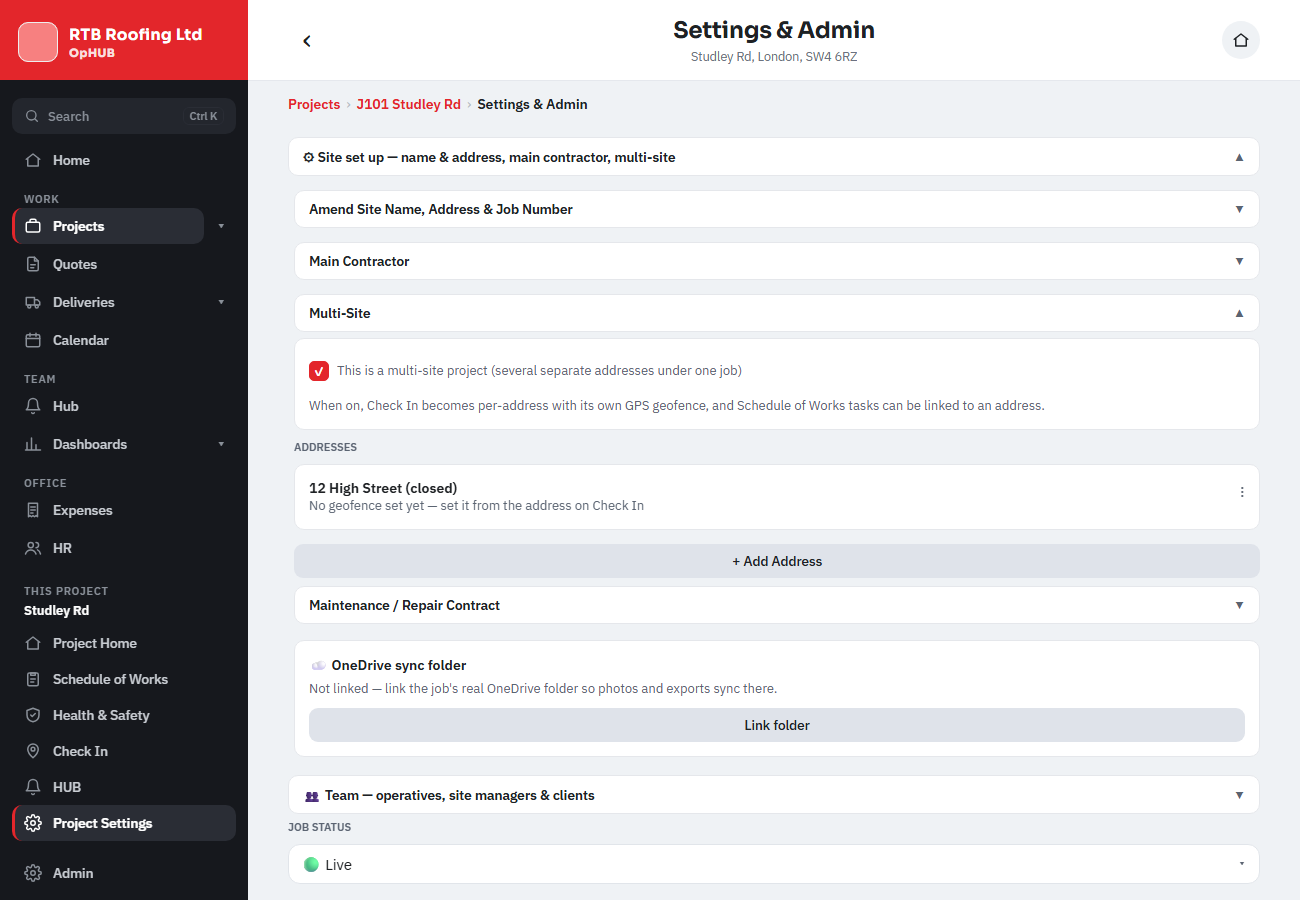
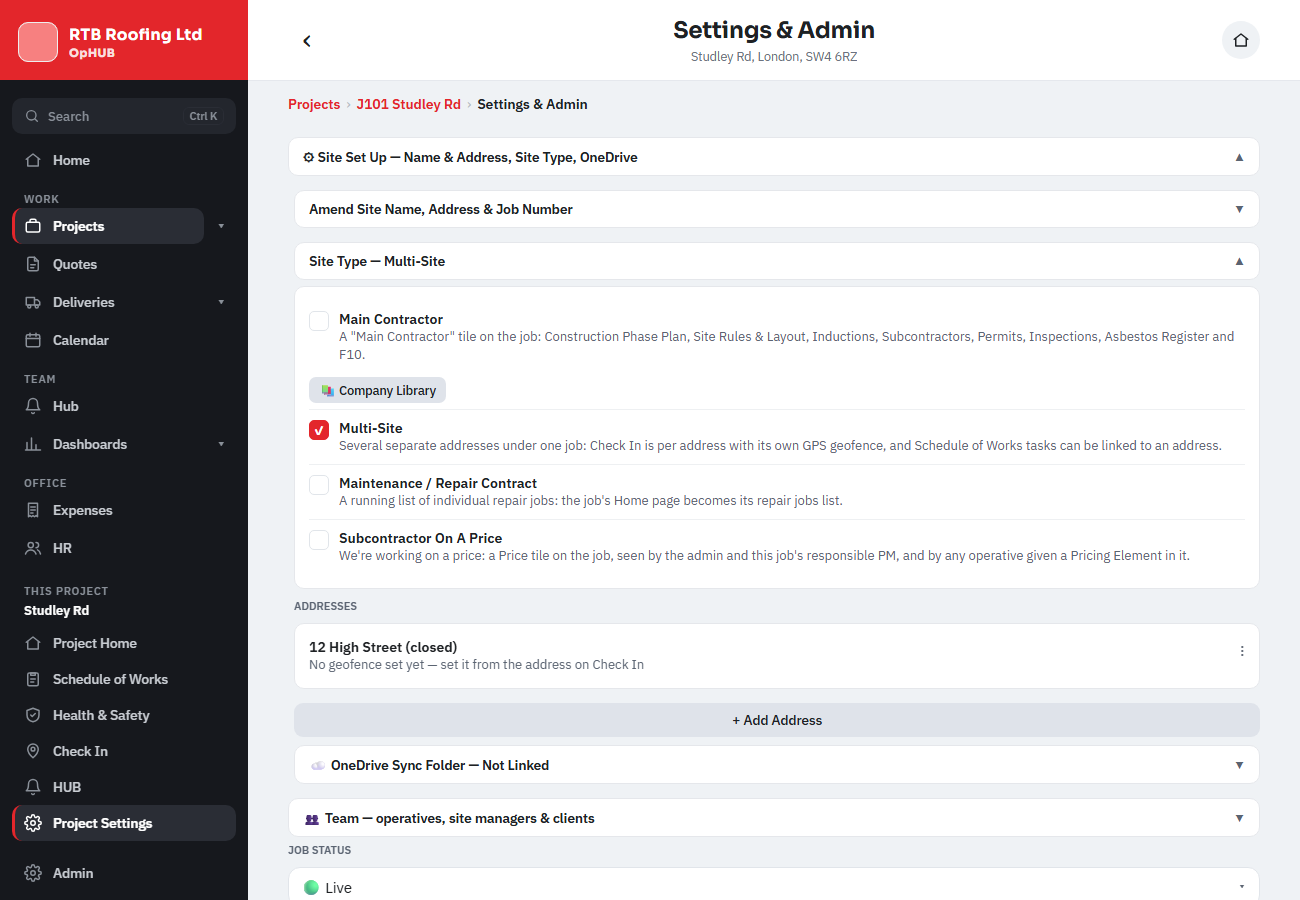
Project settings (Andy, 20 Nov): one Site Type row with tick-on options (Main Contractor, Multi-Site, Maintenance / Repair Contract, and the Price switch moved in as Subcontractor On A Price); multi-site or repair contract asks before swapping; the OneDrive Sync Folder is a drop-down, closed to star
Claude-Session: https://claude.ai/code/session_012KhfNvBEbifMJmPdX7yZfp

diff --git a/app-native/src/app/(app)/sites/[id]/admin.tsx b/app-native/src/app/(app)/sites/[id]/admin.tsx
@@ -1,6 +1,6 @@
 // A job's Settings & Admin (380 renderAssignTeam + 370). Site set up: name/address/
-// job number/start date, Main Contractor, Multi-Site and its addresses, Repair
-// Contract. Team: operatives, site managers, subcontractor crews, clients. Job
+// job number/start date, Site Type (Main Contractor, Multi-Site and its addresses, Repair
+// Contract, Subcontractor On A Price), the OneDrive folder. Team: operatives, site managers, subcontractor crews, clients. Job
 // status, Price switch, Activity History and Site Info. Managers only.
 import { setupJobPack, useJobPackSettings } from '@/data/jobPack';
 import { useQueryClient } from '@tanstack/react-query';
@@ -12,7 +12,7 @@ import { DateBox } from '@/components/DateField';
 import { SelectBox } from '@/components/SelectBox';
 import { AssignList } from '@/components/AssignList';
 import { chooseAction, confirmAsk, showAlert, useToast } from '@/components/toast';
-import { Button, Card, Check, Empty, Muted, SectionTitle, Toggle } from '@/components/ui';
+import { Button, Card, Empty, Muted, SectionTitle, Toggle } from '@/components/ui';
 import { nameOf, usePeople } from '@/data/hs';
 import {
   assignToSite, deleteSubAddress, removeFromSite, setSubAddressClosed, saveSubAddress, setSiteStatus, toggleSubOperative, updateSite,
@@ -25,7 +25,7 @@ import { useAuth } from '@/lib/auth';
 import { siteStatusKey } from '@/lib/rules/checkin';
 import { jobNumberClash } from '@/lib/rules/jobNumbers';
 import { isFullManager, isManager } from '@/lib/roles';
-import { base, page, radius, space } from '@/theme/theme';
+import { base, page, radius, space, useTheme } from '@/theme/theme';
 
 const box = { borderWidth: 1, borderColor: base.line, borderRadius: radius.input, padding: 10, color: base.ink, backgroundColor: base.card, marginBottom: 8 };
 const long = (d: string | null | undefined) => (d ? new Date(d).toLocaleDateString('en-GB', { day: '2-digit', month: 'short', year: 'numeric' }) : '—');
@@ -61,12 +61,21 @@ export default function SiteAdmin() {
     void refetch();
   };
   const flag = async (patch: Record<string, unknown>, msg: string) => { if (await updateSite(qc, id, patch)) toast(msg); else toast('Could not save — try again.'); };
+  const types = [mc && 'Main Contractor', site.multi_site && 'Multi-Site', site.repair_contract && 'Repair Contract', site.price_enabled && 'On A Price'].filter(Boolean) as string[];
+  // Multi-site or repair contract: turning one on when the other is on asks, then swaps.
+  const setType = async (k: 'multi' | 'repair') => {
+    const on = k === 'multi' ? !!site.multi_site : !!site.repair_contract;
+    const other = k === 'multi' ? !!site.repair_contract : !!site.multi_site;
+    if (!on && other && !(await confirmAsk(`A job is multi-site or a repair contract, not both. Turn off ${k === 'multi' ? 'Maintenance / Repair Contract and make it Multi-Site' : 'Multi-Site and make it a Maintenance / Repair Contract'}?`, 'Yes', 'No'))) return;
+    const swap = !on && other ? (k === 'multi' ? { repair_contract: false } : { multi_site: false }) : {};
+    await flag({ [k === 'multi' ? 'multi_site' : 'repair_contract']: !on, ...swap }, '');
+  };
 
   return (
     <ScrollView contentContainerStyle={page(720)} keyboardShouldPersistTaps="handled">
       <Stack.Screen options={{ title: 'Settings & Admin' }} />
 
-      <Toggle title="⚙ Site set up — name & address, main contractor, multi-site" open={!!open.setup} onPress={() => flip('setup')} />
+      <Toggle title="⚙ Site Set Up — Name & Address, Site Type, OneDrive" open={!!open.setup} onPress={() => flip('setup')} />
       {open.setup && (
         <View style={{ marginLeft: 6 }}>
           {full && (
@@ -98,74 +107,65 @@ export default function SiteAdmin() {
             </>
           )}
 
-          <Toggle title="Main Contractor" open={!!open.mc} onPress={() => flip('mc')} />
-          {open.mc && (
-            <Card>
-              {full ? <Check label="Acting as a Main Contractor?" value={mc} onChange={(v) => void flag({ acting_as_main_contractor: v }, v ? 'Main Contractor tiles enabled' : 'Main Contractor tiles disabled')} />
-                : <Muted>{mc ? '✓ Acting as a Main Contractor' : 'Not acting as a Main Contractor'}</Muted>}
-              <Muted style={{ marginTop: 8 }}>When on, a single "Main Contractor" tile appears on this site's home page, leading to the Construction Phase Plan, Site Rules & Layout, Inductions, Subcontractors, Permits, Inspections, Asbestos Register and F10.</Muted>
-              {/* 380: every subcontractor company's own library (insurance, accreditations, RAMS templates), shared across jobs. */}
-              <View style={{ marginTop: 10 }}><Button kind="ghost" title="📚 Company Library" onPress={() => router.push('/pm/admin/companylibrary' as never)} /></View>
-            </Card>
-          )}
-
-          <Toggle title="Multi-Site" open={!!open.multi} onPress={() => flip('multi')} />
-          {open.multi && (
+          {/* Site Type (Andy, 20 Nov 2026: "move the main contractor and multi site maintenance repair under one row for site type
+              please? then the options are selectable and the price in here too (change to subcontractor on a price?)"): one row,
+              each type ticked on or off. A project is multi-site or a repair contract, not both. */}
+          <Toggle title={`Site Type${types.length ? ` — ${types.join(' · ')}` : ''}`} open={!!open.type} onPress={() => flip('type')} />
+          {open.type && (
             <View>
               <Card>
-                {full && !site.repair_contract ? <Check label="This is a multi-site project (several separate addresses under one job)" value={site.multi_site} onChange={(v) => void flag({ multi_site: v }, v ? 'Multi-site enabled — add its addresses below' : 'Multi-site disabled')} />
-                  : <Muted>{site.multi_site ? '✓ Multi-site project' : 'Not a multi-site project'}</Muted>}
-                <Muted style={{ marginTop: 8 }}>{site.repair_contract ? 'Turn off Maintenance / Repair Contract first — a project is one or the other, not both.' : 'When on, Check In becomes per-address with its own GPS geofence, and Schedule of Works tasks can be linked to an address.'}</Muted>
+                <TypeRow first label="Main Contractor" on={mc} edit={full} onPress={() => void flag({ acting_as_main_contractor: !mc }, '')}
+                  desc='A "Main Contractor" tile on the job: Construction Phase Plan, Site Rules & Layout, Inductions, Subcontractors, Permits, Inspections, Asbestos Register and F10.' />
+                {/* 380: every subcontractor company's own library (insurance, accreditations, RAMS templates), shared across jobs. */}
+                <View style={{ alignItems: 'center', marginBottom: 6 }}><Button small kind="ghost" title="📚 Company Library" onPress={() => router.push('/pm/admin/companylibrary' as never)} /></View>
+                <TypeRow label="Multi-Site" on={!!site.multi_site} edit={full} onPress={() => void setType('multi')}
+                  desc="Several separate addresses under one job: Check In is per address with its own GPS geofence, and Schedule of Works tasks can be linked to an address." />
+                <TypeRow label="Maintenance / Repair Contract" on={!!site.repair_contract} edit={full} onPress={() => void setType('repair')}
+                  desc="A running list of individual repair jobs: the job's Home page becomes its repair jobs list." />
+                {full && <TypeRow label="Subcontractor On A Price" on={!!site.price_enabled} edit onPress={() => void flag({ price_enabled: !site.price_enabled }, '')}
+                  desc="We're working on a price: a Price tile on the job, seen by the admin and this job's responsible PM, and by any operative given a Pricing Element in it." />}
+                {!full && <Muted style={{ marginTop: 6, textAlign: 'center' }}>Only an admin or project manager can change the site type.</Muted>}
               </Card>
-              {site.multi_site && (
-                <>
-                  <SectionTitle>Addresses</SectionTitle>
-                  {(addrs ?? []).map((a: FullSubAddr) => (
-                    <Card key={a.id} style={{ flexDirection: 'row', gap: 8 }}>
-                      <View style={{ flex: 1 }}>
-                        <Text style={{ fontWeight: '600', color: base.ink }}>{a.name}{a.closed ? ' (closed)' : ''}</Text>
-                        {!!(a.address || a.postcode) && <Muted>{[a.address, a.postcode].filter(Boolean).join(', ')}</Muted>}
-                        <Muted>{a.geofence_lat != null ? `📍 Geofence set — ${a.geofence_radius_m || 100}m radius` : 'No geofence set yet — set it from the address on Check In'}</Muted>
-                      </View>
-                      <Pressable hitSlop={8} onPress={async () => {
-                        const k = await chooseAction(a.name, [{ key: 'edit', label: '✎ Edit' }, { key: 'geo', label: '📍 Geofence (on Check In)' }, { key: 'close', label: a.closed ? '🔓 Reopen this address' : '🔒 Close this address (finished)' }, { key: 'del', label: '🗑 Delete', danger: true }]);
-                        if (k === 'edit') setAddrForm({ id: a.id, name: a.name, address: a.address || '', postcode: a.postcode || '' });
-                        else if (k === 'geo') router.push(`/sites/${id}/checkin/${a.id}` as never);
-                        else if (k === 'close') { if (await setSubAddressClosed(me, id, a, !a.closed)) void refetchAddrs(); else toast('Could not save — try again.'); }
-                        else if (k === 'del' && await confirmAsk("Delete this address? Any tasks or check-ins already linked to it keep their history but will show as unlinked. This can't be undone.", 'Delete')) {
-                          if (await deleteSubAddress(me, id, a)) { toast('Address deleted'); void refetchAddrs(); } else toast('Could not delete — try again.');
-                        }
-                      }}><Text style={{ fontSize: 18, color: base.slate }}>⋮</Text></Pressable>
-                    </Card>
-                  ))}
-                  {!addrs?.length && <Empty>No addresses added yet.</Empty>}
-                  {addrForm ? (
-                    <Card style={{ backgroundColor: base.paper }}>
-                      <SectionTitle>{addrForm.id ? 'Edit Address' : 'Add Address'}</SectionTitle>
-                      <TextInput value={addrForm.name} onChangeText={(t) => setAddrForm({ ...addrForm, name: t })} placeholder="e.g. 12 High Street" style={box} />
-                      <TextInput value={addrForm.address} onChangeText={(t) => setAddrForm({ ...addrForm, address: titleCase(t) })} placeholder="Address (optional)" style={box} />
-                      <TextInput value={addrForm.postcode} onChangeText={(t) => setAddrForm({ ...addrForm, postcode: t.toUpperCase() })} placeholder="Postcode (optional)" autoCapitalize="characters" style={box} />
-                      <Button title={addrForm.id ? 'Save' : 'Add Address'} onPress={async () => {
-                        if (!addrForm.name.trim()) { toast('Enter a name for this address.'); return; }
-                        if (await saveSubAddress(me, id, addrForm.id, { name: addrForm.name.trim(), address: addrForm.address.trim(), postcode: addrForm.postcode.trim() })) {
-                          toast(addrForm.id ? 'Address updated' : 'Address added'); setAddrForm(null); void refetchAddrs(); void qc.invalidateQueries({ queryKey: ['subAddresses', id] });
-                        } else toast('Could not save — try again.');
-                      }} />
-                      <Button kind="ghost" title="Cancel" onPress={() => setAddrForm(null)} />
-                    </Card>
-                  ) : <Button kind="ghost" title="+ Add Address" onPress={() => setAddrForm({ id: null, name: '', address: '', postcode: '' })} />}
-                </>
-              )}
+            {site.multi_site && (
+              <>
+                <SectionTitle>Addresses</SectionTitle>
+                {(addrs ?? []).map((a: FullSubAddr) => (
+                  <Card key={a.id} style={{ flexDirection: 'row', gap: 8 }}>
+                    <View style={{ flex: 1 }}>
+                      <Text style={{ fontWeight: '600', color: base.ink }}>{a.name}{a.closed ? ' (closed)' : ''}</Text>
+                      {!!(a.address || a.postcode) && <Muted>{[a.address, a.postcode].filter(Boolean).join(', ')}</Muted>}
+                      <Muted>{a.geofence_lat != null ? `📍 Geofence set — ${a.geofence_radius_m || 100}m radius` : 'No geofence set yet — set it from the address on Check In'}</Muted>
+                    </View>
+                    <Pressable hitSlop={8} onPress={async () => {
+                      const k = await chooseAction(a.name, [{ key: 'edit', label: '✎ Edit' }, { key: 'geo', label: '📍 Geofence (on Check In)' }, { key: 'close', label: a.closed ? '🔓 Reopen this address' : '🔒 Close this address (finished)' }, { key: 'del', label: '🗑 Delete', danger: true }]);
+                      if (k === 'edit') setAddrForm({ id: a.id, name: a.name, address: a.address || '', postcode: a.postcode || '' });
+                      else if (k === 'geo') router.push(`/sites/${id}/checkin/${a.id}` as never);
+                      else if (k === 'close') { if (await setSubAddressClosed(me, id, a, !a.closed)) void refetchAddrs(); else toast('Could not save — try again.'); }
+                      else if (k === 'del' && await confirmAsk("Delete this address? Any tasks or check-ins already linked to it keep their history but will show as unlinked. This can't be undone.", 'Delete')) {
+                        if (await deleteSubAddress(me, id, a)) { toast('Address deleted'); void refetchAddrs(); } else toast('Could not delete — try again.');
+                      }
+                    }}><Text style={{ fontSize: 18, color: base.slate }}>⋮</Text></Pressable>
+                  </Card>
+                ))}
+                {!addrs?.length && <Empty>No addresses added yet.</Empty>}
+                {addrForm ? (
+                  <Card style={{ backgroundColor: base.paper }}>
+                    <SectionTitle>{addrForm.id ? 'Edit Address' : 'Add Address'}</SectionTitle>
+                    <TextInput value={addrForm.name} onChangeText={(t) => setAddrForm({ ...addrForm, name: t })} placeholder="e.g. 12 High Street" style={box} />
+                    <TextInput value={addrForm.address} onChangeText={(t) => setAddrForm({ ...addrForm, address: titleCase(t) })} placeholder="Address (optional)" style={box} />
+                    <TextInput value={addrForm.postcode} onChangeText={(t) => setAddrForm({ ...addrForm, postcode: t.toUpperCase() })} placeholder="Postcode (optional)" autoCapitalize="characters" style={box} />
+                    <Button title={addrForm.id ? 'Save' : 'Add Address'} onPress={async () => {
+                      if (!addrForm.name.trim()) { toast('Enter a name for this address.'); return; }
+                      if (await saveSubAddress(me, id, addrForm.id, { name: addrForm.name.trim(), address: addrForm.address.trim(), postcode: addrForm.postcode.trim() })) {
+                        toast(addrForm.id ? 'Address updated' : 'Address added'); setAddrForm(null); void refetchAddrs(); void qc.invalidateQueries({ queryKey: ['subAddresses', id] });
+                      } else toast('Could not save — try again.');
+                    }} />
+                    <Button kind="ghost" title="Cancel" onPress={() => setAddrForm(null)} />
+                  </Card>
+                ) : <Button kind="ghost" title="+ Add Address" onPress={() => setAddrForm({ id: null, name: '', address: '', postcode: '' })} />}
+              </>
+            )}
             </View>
-          )}
-
-          <Toggle title="Maintenance / Repair Contract" open={!!open.repair} onPress={() => flip('repair')} />
-          {open.repair && (
-            <Card>
-              {full && !site.multi_site ? <Check label="This is a Maintenance / Repair Contract (a running list of individual repair jobs)" value={site.repair_contract} onChange={(v) => void flag({ repair_contract: v }, v ? 'Repair Contract enabled — this project now opens straight into its repair jobs list' : 'Repair Contract disabled')} />
-                : <Muted>{site.repair_contract ? '✓ Maintenance / Repair Contract' : 'Not a repair contract'}</Muted>}
-              <Muted style={{ marginTop: 8 }}>{site.multi_site ? 'Turn off Multi-site first — a project is one or the other, not both.' : "When on, this project's Home page becomes its repair jobs list."}</Muted>
-            </Card>
           )}
           <SyncFolderCard site={site as never} full={!!me && isFullManager(me)} />
         </View>
@@ -224,13 +224,6 @@ export default function SiteAdmin() {
             if (!(await setSiteStatus(qc, me, id, k))) toast('Could not save — try again.');
           }} />
 
-          <Toggle title="Price" open={!!open.price} onPress={() => flip('price')} />
-          {open.price && (
-            <Card>
-              <Check label="This project is on a price" value={site.price_enabled} onChange={(v) => void flag({ price_enabled: v }, v ? 'Price tile enabled' : 'Price tile disabled')} />
-              <Muted style={{ marginTop: 8 }}>When on, a "Price" tile appears on the site home screen — visible to the admin and this site's responsible PM always, and to any operative granted access to a Pricing Element inside the Price tile.</Muted>
-            </Card>
-          )}
         </>
       )}
 
@@ -248,6 +241,23 @@ export default function SiteAdmin() {
   );
 }
 
+/** One site type: tick on or off, with what it does under it. */
+function TypeRow({ label, desc, on, edit, first, onPress }: { label: string; desc: string; on: boolean; edit: boolean; first?: boolean; onPress: () => void }) {
+  const t = useTheme();
+  return (
+    <Pressable disabled={!edit} onPress={onPress} accessibilityRole="checkbox" accessibilityLabel={label} accessibilityState={{ checked: on, disabled: !edit }}
+      style={{ flexDirection: 'row', gap: 10, paddingVertical: 9, borderTopWidth: first ? 0 : 1, borderTopColor: '#EEF0F2' }}>
+      <View style={{ width: 20, height: 20, marginTop: 1, borderRadius: 5, borderWidth: 1.5, borderColor: on ? t.brand1 : base.line, backgroundColor: on ? t.brand1 : undefined, alignItems: 'center', justifyContent: 'center' }}>
+        {on && <Text style={{ color: t.brand1Text, fontSize: 12, fontWeight: '700' }}>✓</Text>}
+      </View>
+      <View style={{ flex: 1 }}>
+        <Text style={{ fontWeight: '600', fontSize: 14, color: base.ink }}>{label}</Text>
+        <Muted>{desc}</Muted>
+      </View>
+    </Pressable>
+  );
+}
+
 // 380 / 310 "Sync Folder": the job's linked OneDrive folder — Change / Unlink, 🔄 Manual Sync (new top-level files
 // pulled into Drawings; uploads here already push out), when it last synced, and a warning when the company's
 // connection needs reconnecting.
@@ -259,6 +269,8 @@ function SyncFolderCard({ site, full }: { site: SyncSite; full: boolean }) {
   const { data: od } = useOneDriveStatus(me?.org_id);
   const { data: packSettings } = useJobPackSettings(me?.org_id);
   const [busy, setBusy] = useState('');
+  // A drop-down, closed to start (Andy, 20 Nov 2026: "make the one drive sync folder a drop down folder closed by default").
+  const [open, setOpen] = useState(false);
   const refresh = () => void qc.invalidateQueries({ queryKey: ['sites'] });
   const sync = async () => {
     if (!me || !site.onedrive_folder_id) return;
@@ -269,8 +281,10 @@ function SyncFolderCard({ site, full }: { site: SyncSite; full: boolean }) {
     } finally { setBusy(''); }
   };
   return (
-    <Card style={{ marginTop: 10 }}>
-      <Text style={{ fontWeight: '600', color: base.ink }}>☁ OneDrive sync folder</Text>
+    <>
+    <Toggle title={`☁ OneDrive Sync Folder — ${site.onedrive_folder_name ? `📁 ${site.onedrive_folder_name}` : 'Not Linked'}${od?.needs_reconnect ? ' ⚠' : ''}`} open={open} onPress={() => setOpen(!open)} />
+    {open && (
+    <Card>
       {od?.needs_reconnect && <Muted style={{ color: base.warn, marginTop: 6 }}>OneDrive isn&apos;t syncing at the moment — the company connection needs reconnecting by an admin (Admin Centre › Integrations).</Muted>}
       <Muted style={{ marginVertical: 6 }}>{site.onedrive_folder_name ? `📁 ${site.onedrive_folder_name} — photos, drawings and exports sync there` : "Not linked — link the job's real OneDrive folder so photos and exports sync there."}</Muted>
       {full && !!packSettings?.enabled && (!site.onedrive_folder_id || !!(site as { job_pack?: unknown }).job_pack) && <Button kind={site.onedrive_folder_id ? 'ghost' : undefined} title={site.onedrive_folder_id ? '📦 Fill in anything missing from the job pack' : '📦 Set up job pack folder'} onPress={async () => {
@@ -290,5 +304,7 @@ function SyncFolderCard({ site, full }: { site: SyncSite; full: boolean }) {
       )}
       {!!site.onedrive_last_synced_at && <Muted style={{ marginTop: 4 }}>Last synced {new Date(site.onedrive_last_synced_at).toLocaleString('en-GB')}</Muted>}
     </Card>
+    )}
+    </>
   );
 }

diff --git a/tools/test-harness/sitetype20-check.js b/tools/test-harness/sitetype20-check.js
@@ -1,0 +1,50 @@
+// Project settings (Andy, 20 Nov 2026): "move the main contractor and multi site maintenance repair under one row for site type
+// please? then the options are selectable and the price in here too (change to subcontractor on a price?)" and "make the one
+// drive sync folder a drop down folder closed by default". Fake database. node sitetype20-check.js
+const {chromium, makeContext, S1} = require('./harness');
+const path = require('path');
+const check = (ok, what) => { console.log((ok ? 'PASS ' : 'FAIL ') + what); if (!ok) process.exitCode = 1; };
+const B = 'http://localhost:8081';
+const SHOTS = path.join(__dirname, 'shots', 'sitetype20'); require('fs').mkdirSync(SHOTS, {recursive: true});
+(async () => {
+  const browser = await chromium.launch(); const errs = [];
+  for (const [w, h, tag] of [[1300, 900, 'laptop'], [390, 844, 'phone']]) {
+    const {ctx, db} = await makeContext(browser, 'admin', [], {viewport: {width: w, height: h}});
+    require('./seeds/world')(db);
+    const me = db.profiles.find((p) => p.id === 'me'); Object.assign(me, {role: 'admin', howto_dismissed: ['*']});
+    const site = db.sites.find((s) => s.id === S1);
+    Object.assign(site, {acting_as_main_contractor: false, multi_site: false, repair_contract: true, price_enabled: false, onedrive_folder_id: 'f1', onedrive_folder_name: '2602 81 Redington Road'});
+    const page = await ctx.newPage(); page.on('pageerror', (e) => errs.push(e.message));
+    const text = async () => (await page.locator('body').innerText()).replace(/\s+/g, ' ');
+    await page.goto(B + '/login'); await page.waitForTimeout(5000);
+    await page.fill('input[placeholder="you@yourcompany.co.uk"]', 'a@x.co'); await page.fill('input[type="password"]', 'pw123456');
+    await page.getByText('Sign In', {exact: true}).click(); await page.waitForTimeout(5000);
+    await page.goto(B + '/sites/' + S1 + '/admin'); await page.waitForTimeout(5000);
+    await page.getByText(/^⚙ Site Set Up/).first().click(); await page.waitForTimeout(600);
+    let t = await text();
+    check(/Site Type — Repair Contract/.test(t), `${tag}: one Site Type row, saying what it is`);
+    check(!/^Main Contractor$/m.test(await page.locator('body').innerText()) && !/Manual Sync/.test(t) && /OneDrive Sync Folder — 📁 2602 81 Redington Road/.test(t), `${tag}: the OneDrive folder is a drop-down, closed to start`);
+    await page.getByText(/^Site Type/).first().click(); await page.waitForTimeout(600);
+    t = await text();
+    check(['Main Contractor', 'Multi-Site', 'Maintenance / Repair Contract', 'Subcontractor On A Price'].every((l) => t.includes(l)) && !/^Price$/m.test(await page.locator('body').innerText()), `${tag}: Main Contractor, Multi-Site, Repair Contract and Subcontractor On A Price in it; no separate Price row`);
+    const tick = (l) => page.getByRole('checkbox', {name: l}).first();
+    await tick('Main Contractor').click(); await page.waitForTimeout(1200);
+    check(site.acting_as_main_contractor === true, `${tag}: Main Contractor ticks on`);
+    await tick('Subcontractor On A Price').click(); await page.waitForTimeout(1200);
+    check(site.price_enabled === true, `${tag}: Subcontractor On A Price ticks on (the Price tile)`);
+    // Multi-site while it's a repair contract: asks, then swaps.
+    await tick('Multi-Site').click(); await page.waitForTimeout(700);
+    check(/multi-site or a repair contract, not both/.test(await text()), `${tag}: Multi-Site on a repair contract asks first`);
+    await page.getByText('Yes', {exact: true}).last().click(); await page.waitForTimeout(1500);
+    check(site.multi_site === true && site.repair_contract === false, `${tag}: and swaps it to multi-site (${site.multi_site}/${site.repair_contract})`);
+    t = await text();
+    check(/Site Type — Main Contractor · Multi-Site · On A Price/.test(t) && /Addresses/i.test(t), `${tag}: the row says the new type, and the addresses show`);
+    await page.screenshot({path: path.join(SHOTS, `site-type-${tag}.png`), fullPage: true});
+    await page.getByText(/OneDrive Sync Folder/).first().click(); await page.waitForTimeout(600);
+    check(/Manual Sync/.test(await text()), `${tag}: the OneDrive folder opens`);
+    await page.screenshot({path: path.join(SHOTS, `onedrive-open-${tag}.png`), fullPage: true});
+    await ctx.close();
+  }
+  check(!errs.length, `no page errors ${errs.slice(0, 2).join(' | ')}`);
+  await browser.close();
+})();

diff --git a/tools/test-harness/syncfold-check.js b/tools/test-harness/syncfold-check.js
@@ -17,7 +17,8 @@ const {chromium, makeContext, S1} = require('./harness');
   await page.fill('input[placeholder="you@yourcompany.co.uk"]', 'a@x.co'); await page.fill('input[type="password"]', 'pw123456');
   await page.getByText('Sign In', {exact:true}).click(); await page.waitForTimeout(5000);
   await page.goto('http://localhost:8081/sites/'+S1+'/admin'); await page.waitForTimeout(6000);
-  const t = page.getByText(/Site set up/).first(); if (await t.count()) { await t.click(); await page.waitForTimeout(500); }
+  const t = page.getByText(/Site set up/i).first(); if (await t.count()) { await t.click(); await page.waitForTimeout(500); }
+  await page.getByText(/OneDrive Sync Folder/).first().click(); await page.waitForTimeout(500);
   await page.getByText(/Manual Sync/).first().click(); await page.waitForTimeout(5000);
   console.log('drawings', db.drawing_files.map(f=>f.name).join(', '), '| last synced set', !!st.onedrive_last_synced_at);
   await page.getByText('Unlink folder', {exact:true}).click(); await page.waitForTimeout(600);

diff --git a/tools/test-harness/colib-check.js b/tools/test-harness/colib-check.js
@@ -11,8 +11,8 @@ const {chromium, makeContext, S1} = require('./harness');
   await page.fill('input[placeholder="you@yourcompany.co.uk"]', 'a@x.co'); await page.fill('input[type="password"]', 'pw123456');
   await page.getByText('Sign In', {exact:true}).click(); await page.waitForTimeout(5000);
   await page.goto(BASE+'/sites/'+S1+'/admin'); await page.waitForTimeout(5000);
-  await page.getByText(/Site set up/).click(); await page.waitForTimeout(500);
-  await page.getByText(/^Main Contractor$/).first().click(); await page.waitForTimeout(500);
+  await page.getByText(/Site set up/i).click(); await page.waitForTimeout(500);
+  await page.getByText(/^Site Type/).first().click(); await page.waitForTimeout(500);
   await page.getByText('📚 Company Library').click(); await page.waitForTimeout(4000);
   console.log('url:', page.url().replace(BASE,''), '| company listed:', await page.getByText('Brothers Scaffold').count());
   console.log('errors', errs.join(' / ').slice(0,400) || 'none');

diff --git a/tools/test-harness/l43a-check.js b/tools/test-harness/l43a-check.js
@@ -25,7 +25,7 @@ const check = (ok, what) => { console.log((ok ? 'PASS ' : 'FAIL ') + what); if (
   check(await page.getByText(/Strip old felt/).count() > 0, 'the library template shows its tasks before copying');
   await page.getByText('No', {exact:true}).last().click(); await page.waitForTimeout(400);
   await page.goto(BASE+'/sites/'+S1+'/admin'); await page.waitForTimeout(5000);
-  await page.getByText(/Site set up/).click(); await page.waitForTimeout(600); await page.getByText(/^Multi-Site$/i).first().click(); await page.waitForTimeout(600);
+  await page.getByText(/Site set up/i).click(); await page.waitForTimeout(600); await page.getByText(/^Site Type/).first().click(); await page.waitForTimeout(600);
   const dots = page.getByText('⋮');
   await dots.last().click(); await page.waitForTimeout(500);
   await page.getByText(/Close this address/).click(); await page.waitForTimeout(1500);

diff --git a/tools/test-harness/day18-check.js b/tools/test-harness/day18-check.js
@@ -125,7 +125,7 @@ const check = (ok, what) => { console.log((ok ? 'PASS ' : 'FAIL ') + what); if (
 
   // ---- A job's settings: amending to another job's number ----
   await page.goto(B + '/sites/' + S1 + '/admin'); await page.waitForTimeout(4500);
-  const setup = page.getByText(/^⚙ Site set up/).first(); if (await setup.count()) { await setup.click(); await page.waitForTimeout(600); }
+  const setup = page.getByText(/^⚙ Site set up/i).first(); if (await setup.count()) { await setup.click(); await page.waitForTimeout(600); }
   const amend = page.getByText('Amend Site Name, Address & Job Number', {exact: true}).first();
   if (await amend.count()) {
     await amend.click(); await page.waitForTimeout(600);
